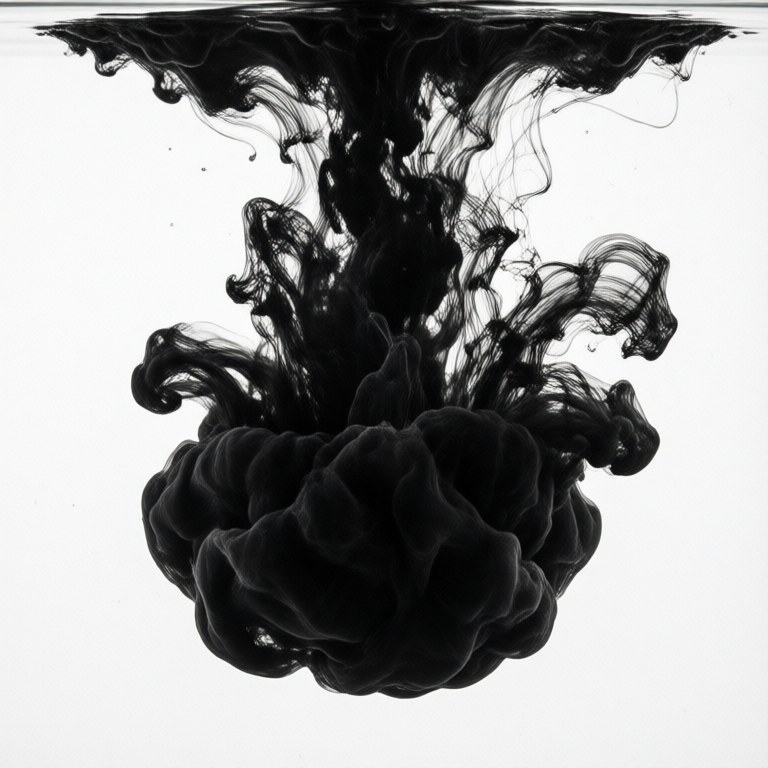
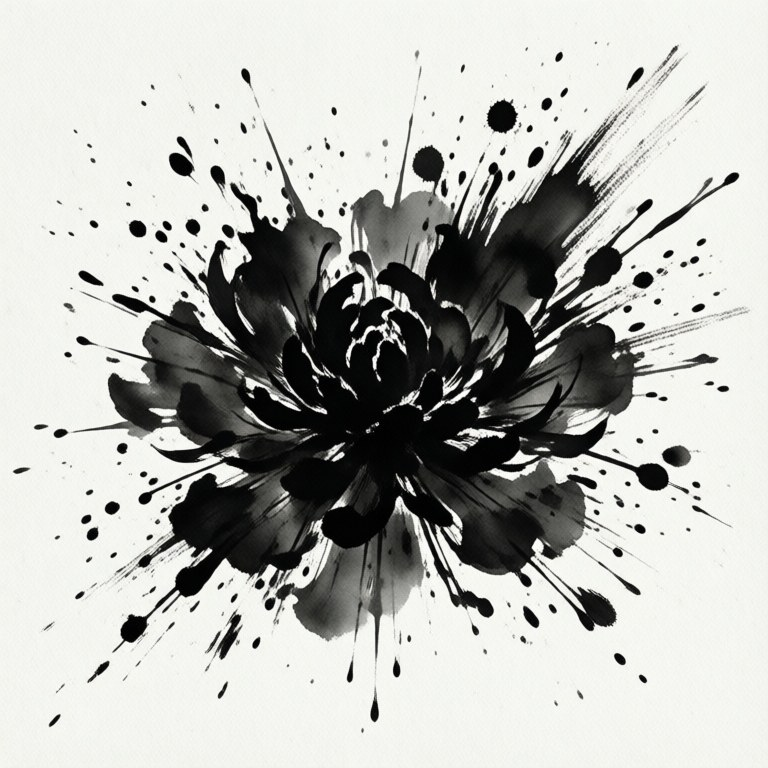
抽卡墨暈改手繪潑墨風
Claude-Session: https://claude.ai/code/session_01MTZBpPx31Snei4yoZENCFZ

diff --git a/activity/src/gachacards.css b/activity/src/gachacards.css
@@ -120,7 +120,7 @@ html body:has(.gcards){background:#d9d1bb}
 .gc-summon.R{--g:#40605a}.gc-summon.SR{--g:#b5342a}.gc-summon.SSR{--g:#c79a2a}
 .gc-orb{position:relative;width:min(70vw,300px);aspect-ratio:1}
 .gc-orb::before{content:"";position:absolute;inset:-10%;border-radius:50%;background:radial-gradient(circle,var(--g) 0%,transparent 62%);opacity:.35;animation:gchalo 1.4s ease-in-out infinite alternate}
-.gc-orb::after{content:"";position:absolute;inset:0;background:url("./gacha-ui/bloom.jpg") center/contain no-repeat;mix-blend-mode:multiply;-webkit-mask:radial-gradient(circle,#000 52%,transparent 71%);mask:radial-gradient(circle,#000 52%,transparent 71%);animation:gcbloom 2.4s ease-out infinite}
+.gc-orb::after{content:"";position:absolute;inset:0;background:url("./gacha-ui/bloom.jpg") center/contain no-repeat;mix-blend-mode:multiply;-webkit-mask:radial-gradient(circle,#000 62%,transparent 80%);mask:radial-gradient(circle,#000 62%,transparent 80%);animation:gcbloom 2.4s ease-out infinite}
 .gc-orb i,.gc-orb b{display:none}
 .gc-summon.SSR .gc-orb,.gc-summon.SR .gc-orb{animation:gcshake .2s linear infinite}
 .gc-stxt{font-size:22px;font-weight:800;letter-spacing:.45em;text-indent:.45em}.gc-summon small{color:#4d493f;font-size:12px}
